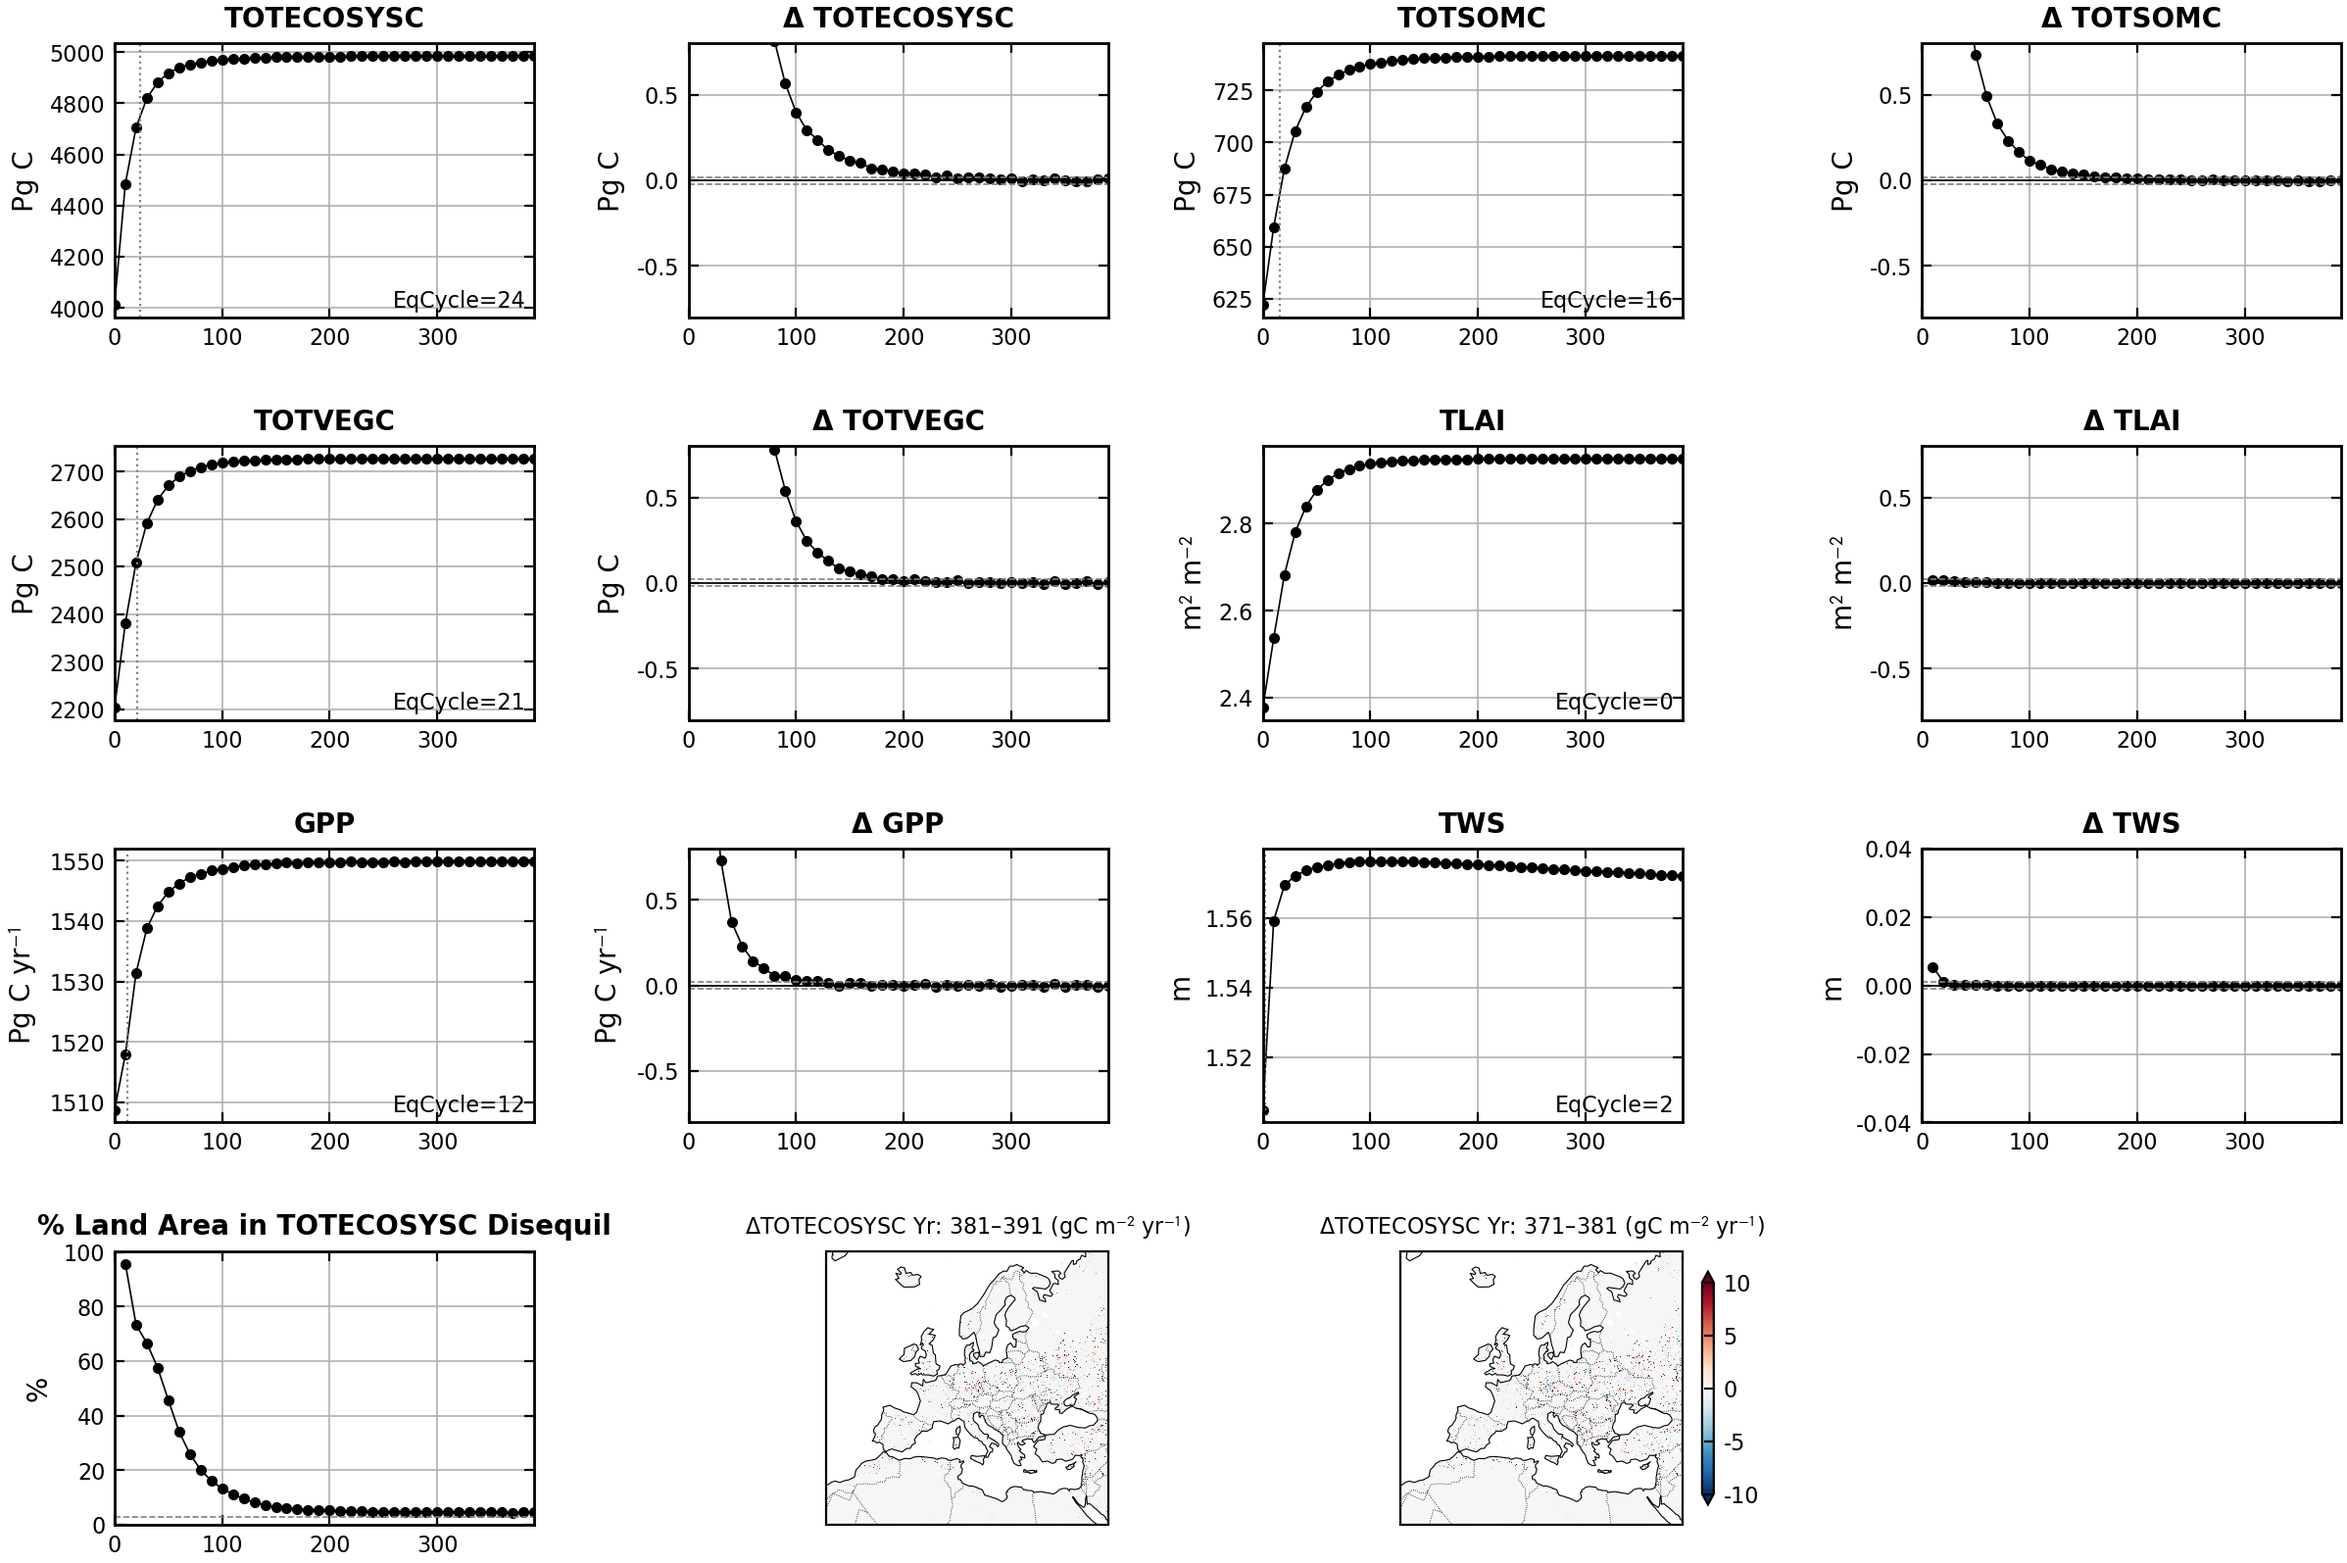
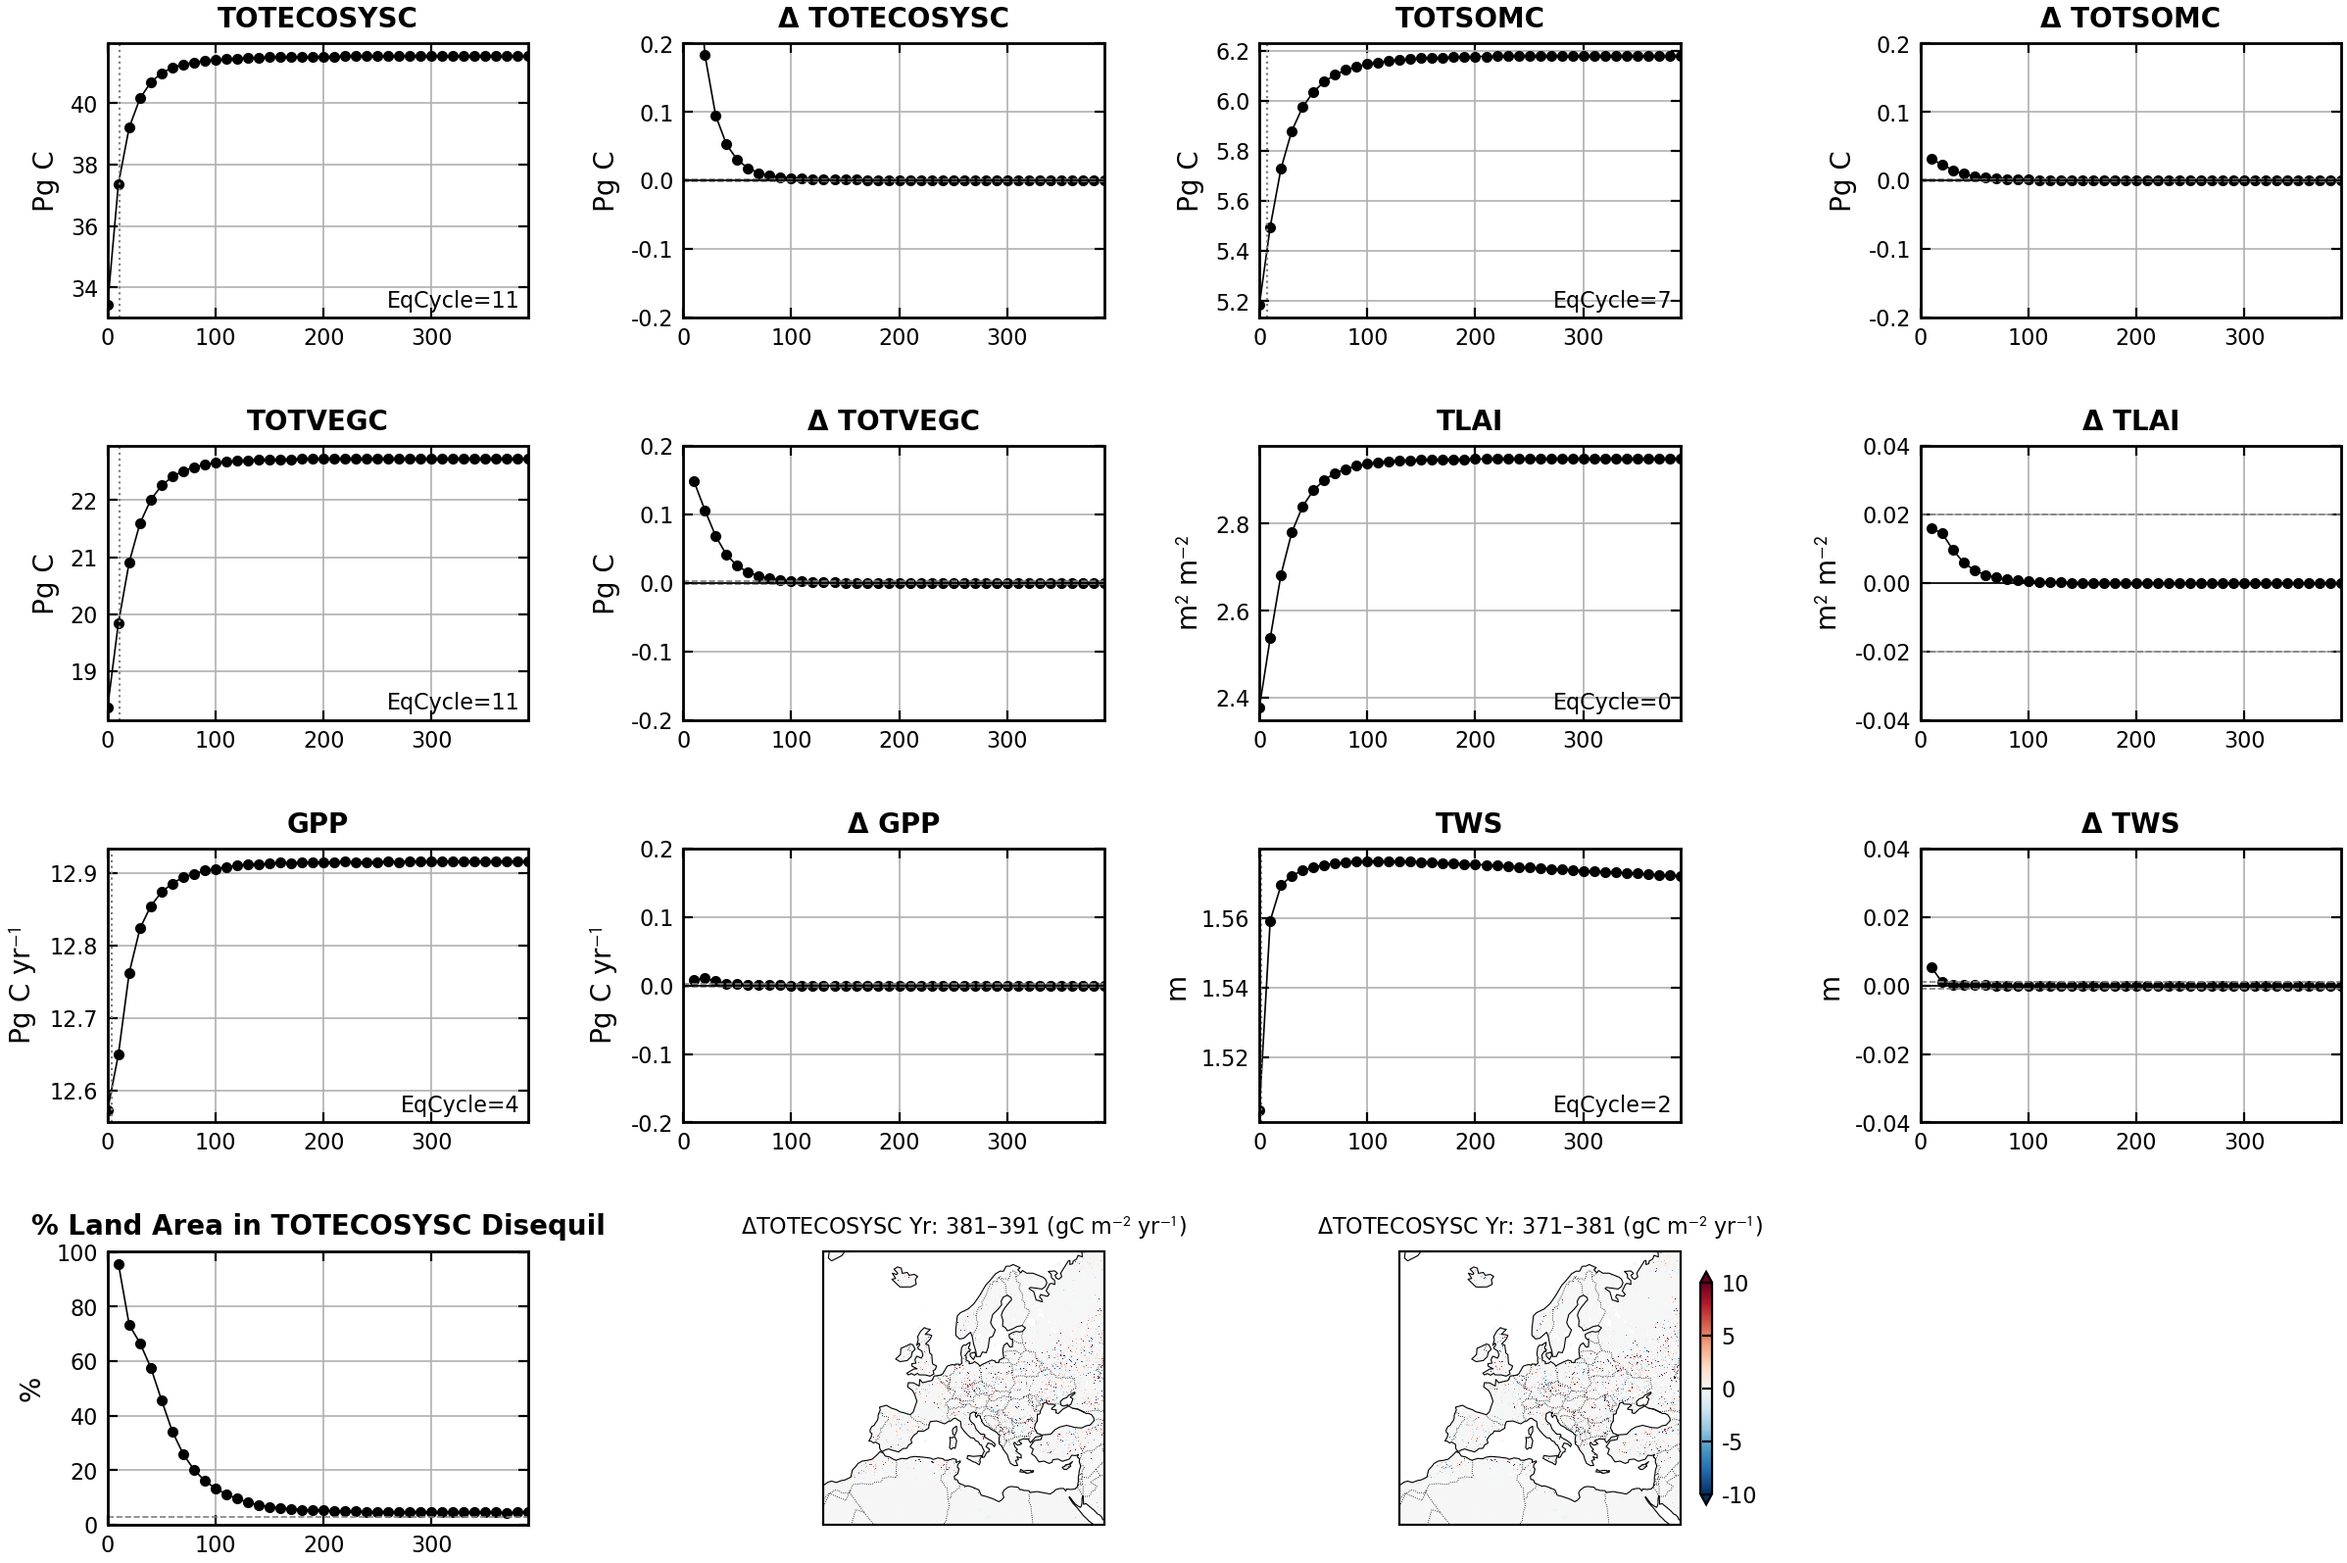
Update the check script (landarea calculation)

diff --git a/AD/check_bgc_spinup.py b/AD/check_bgc_spinup.py
@@ -13,12 +13,20 @@ import geocat.viz.util as gvutil
 import os
 os.environ["MPLBACKEND"] = "Agg" 
 from glob import glob
+import gc
 
+import psutil
+
+def log_mem(stage=""):
+    process = psutil.Process(os.getpid())
+    mem = process.memory_info().rss / 1024**2  # in MB
+    print(f"[MEM] {stage} - RSS Memory: {mem:.2f} MB")
+    
 # -----------------------------
 # Helpers
 # -----------------------------
 
-def _open_cycle_dataset(cdir, years):
+def _open_cycle_dataset(cdir, years, variables):
     files = []
     for y in years:
         files.extend(sorted(glob(f"{cdir}/{caseid}.clm2.{hist_ext}.{y:04d}*.nc")))
@@ -30,6 +38,8 @@ def _open_cycle_dataset(cdir, years):
         combine="by_coords",
         decode_times=True,
         use_cftime=True,
+        chunks={},
+        drop_variables=[v for v in xr.open_dataset(files[0]).variables if v not in variables and v != "time"]
     )
     
 def _annual_means_by_year(ds):
@@ -58,7 +68,7 @@ def _as_float(x):
             x = x.compute()       # trigger Dask
         if hasattr(x, "values"):
             x = x.values          # get ndarray / scalar
-        return float(x)            # Python float
+        return float(x)           # Python float
     except Exception:
         return float(np.asarray(x))
 
@@ -71,20 +81,30 @@ def _global_aggregate(varname, annual_da, landarea):
     annual_da dims: (lat, lon) or with extra singleton dims.
     """
     # align dims
-    da = annual_da
+    da, landarea_aligned = xr.align(annual_da, landarea, join="exact")
+
     if varname in ("TOTECOSYSC", "TOTSOMC", "TOTVEGC"):
-        res = (da * landarea).sum() * 1e-15                 # Pg
+        # gC/m2 * m2 = gC → sum → Pg
+        res = (da * landarea_aligned).sum() * 1e-15
         return _as_float(res)
-    if varname == "GPP":
-        res = (da * secinyr * landarea).sum() * 1e-15       # Pg/yr
+
+    elif varname == "GPP":
+        # gC/m2/s * sec/year * m2 = gC/year → sum → Pg/year
+        res = (da * secinyr * landarea_aligned).sum() * 1e-15
         return _as_float(res)
-    if varname == "TLAI":
-        res = (da * landarea).sum() / landarea.sum()        # m2/m2 (weighted mean)
+
+    elif varname == "TLAI":
+        # weighted mean (unitless)
+        res = (da * landarea_aligned).sum() / landarea_aligned.sum()
         return _as_float(res)
-    if varname == "TWS":
-        res = ((da * landarea).sum() / landarea.sum()) / 1e3  # m (mm→m)
+
+    elif varname == "TWS":
+        # mm * m2 = mm-m2 → mean → convert to meters
+        res = ((da * landarea_aligned).sum() / landarea_aligned.sum()) / 1e3
         return _as_float(res)
-    raise ValueError(f"Unsupported variable {varname}")
+
+    else:
+        raise ValueError(f"Unsupported variable {varname}")
 
 def _compute_deltas_over_subper(series, subper):
     series = np.asarray(series)
@@ -229,8 +249,8 @@ def make_total_panel(cycles, series, deltas, eq_cycle, pct_area_noeq, glob_thres
                 TOTECOSYSC="Pg C", TOTSOMC="Pg C", TOTVEGC="Pg C",
                 TLAI="m$^2$ m$^{-2}$", GPP="Pg C yr$^{-1}$", TWS="m"
             )[v], xlabel="Cycle", title=f"Δ {v}")
-            if v in ("TOTECOSYSC","TOTSOMC","TOTVEGC","TLAI","GPP"):
-                ax.set_ylim(-0.8, 0.8)
+            if v in ("TOTECOSYSC","TOTSOMC","TOTVEGC","GPP"):
+                ax.set_ylim(-0.1, 0.1)
             elif v in ("TWS","TLAI",):
                 ax.set_ylim(-0.04, 0.04)
             ax.set_xlim(years[0], years[-1])
@@ -307,19 +327,28 @@ for d in sorted(glob(f"{base_spinup_dir}/{start_y:04d}0101_{start_y+n_years:04d}
 path_grid = "/p/project1/cjibg36/jibg3674/shared_DA/setup_eclm_cordex_444x432_v9/input_clm"
 file_grid = "domain.lnd.EUR-11_EUR-11.230216_mask.nc"
 domain = xr.open_dataset(os.path.join(path_grid, file_grid))
-
 lat = domain['yc']
 lon = domain['xc']
+domain.close()
 
 # Variables & thresholds
 variables = ["TOTECOSYSC", "TOTSOMC", "TOTVEGC", "TLAI", "GPP", "TWS"]
+# glob_thresh = {
+#     "TOTECOSYSC": 0.02,   # Pg C / yr
+#     "TOTSOMC":    0.02,   # Pg C / yr
+#     "TOTVEGC":    0.02,   # Pg C / yr
+#     "TLAI":       0.02,   # m2/m2 per yr (change in global mean)
+#     "GPP":        0.02,   # Pg C / yr^2 (change in PgC/yr per yr)
+#     "TWS":        0.001,  # m / yr
+# }
+
 glob_thresh = {
-    "TOTECOSYSC": 0.02,   # Pg C / yr
-    "TOTSOMC":    0.02,   # Pg C / yr
-    "TOTVEGC":    0.02,   # Pg C / yr
-    "TLAI":       0.02,   # m2/m2 per yr (change in global mean)
-    "GPP":        0.02,   # Pg C / yr^2 (change in PgC/yr per yr)
-    "TWS":        0.001,  # m / yr
+    "TOTECOSYSC": 0.002,   # Pg C / yr
+    "TOTSOMC":    0.002,   # Pg C / yr
+    "TOTVEGC":    0.002,   # Pg C / yr
+    "TLAI":       0.02,    # m2/m2 per yr (change in global mean)
+    "GPP":        0.002,   # Pg C / yr^2 (change in PgC/yr per yr)
+    "TWS":        0.001,   # m / yr
 }
 
 # For % land area in disequilibrium (TOTECOSYSC only)
@@ -338,19 +367,19 @@ series = {v: [] for v in variables}
 # For TOTECOSYSC maps and area-% we also keep the annual field at the end of each cycle
 fields_totecosysc = []
 # Cache a representative landarea for area-% calc
-landarea_da = None
+
+landfrac = domain["frac"].rename({"nj": "lat", "ni": "lon"})
+ncfile = xr.open_dataset("/p/scratch/cjibg36/jibg3674/eCLM_BGC_SPINUP/AD/19600101_19700101_cycle00/clmoas.clm2.h0.1960-02-01-00000.nc")
+ncfile.close()
+area = ncfile["area"] * 1e6  # convert km^2 -> m^2
+landarea = area * landfrac
+
 
 for ic, cdir in enumerate(cycle_dirs):
+    print(f"[{ic+1}/{len(cycle_dirs)}] Processing: {cdir}")
+#     log_mem("Before loading dataset")
     years = list(range(start_y, start_y + n_years))
-    ds = _open_cycle_dataset(cdir, years)
-    if "area" not in ds.variables or "landfrac" not in ds.variables:
-        raise KeyError("Dataset must contain 'area' (m2 gridcell) and 'landfrac' (0-1)")
-    area = ds["area"] * 1e6  # convert km^2 -> m^2 if needed; adjust if already in m^2
-    landfrac = ds["landfrac"]
-    landarea = area * landfrac
-    if landarea_da is None:
-        landarea_da = landarea.load()
-
+    ds = _open_cycle_dataset(cdir, years, variables)
     groups = _annual_means_by_year(ds)
     end_year = years[-1]
     ds_last = _get_last_year_annual(groups, end_year)
@@ -364,11 +393,13 @@ for ic, cdir in enumerate(cycle_dirs):
                 raise KeyError(f"Variable {v} missing in dataset")
         val = _global_aggregate(v, ds_last[v], landarea)
         series[v].append(val)
-
+        
     # Save field for TOTECOSYSC area-% and maps (keep in gC m^-2)
     fields_totecosysc.append(ds_last["TOTECOSYSC"].load())
-
+#     log_mem(f"After aggregation cycle {ic}")
     ds.close()
+    del ds
+    gc.collect
 
 cycles = np.arange(len(cycle_dirs))
 
@@ -382,15 +413,9 @@ deltas = {v: _compute_deltas_over_subper(series[v], subper) for v in variables}
 eq_cycle = {}
 for v in variables:
     eq_cycle[v] = _equilibrium_cycle(series[v], glob_thresh[v], subper)
-    
-area2d     = _squeeze_2d(area)
-landfrac2d = _squeeze_2d(landfrac)
-landarea2d = (area2d * landfrac2d)
-if ic == 0:
-    landarea_da = landarea2d
 
 # % land area in disequilibrium for TOTECOSYSC only
-pct_area_noeq = _pct_landarea_disequil_totecosysc(fields_totecosysc, landarea2d, cell_thresh, subper)
+pct_area_noeq = _pct_landarea_disequil_totecosysc(fields_totecosysc, landarea, cell_thresh, subper)
 
 # For threshold-vs-sustained equilibrium year on area %: we want last sustained-to-end under thresh
 area_eq_cycle = _equilibrium_cycle(100.0 - pct_area_noeq, 100.0 - glob_thresh_area, 1)  # same logic: we want >= (100-thresh) to be OK
